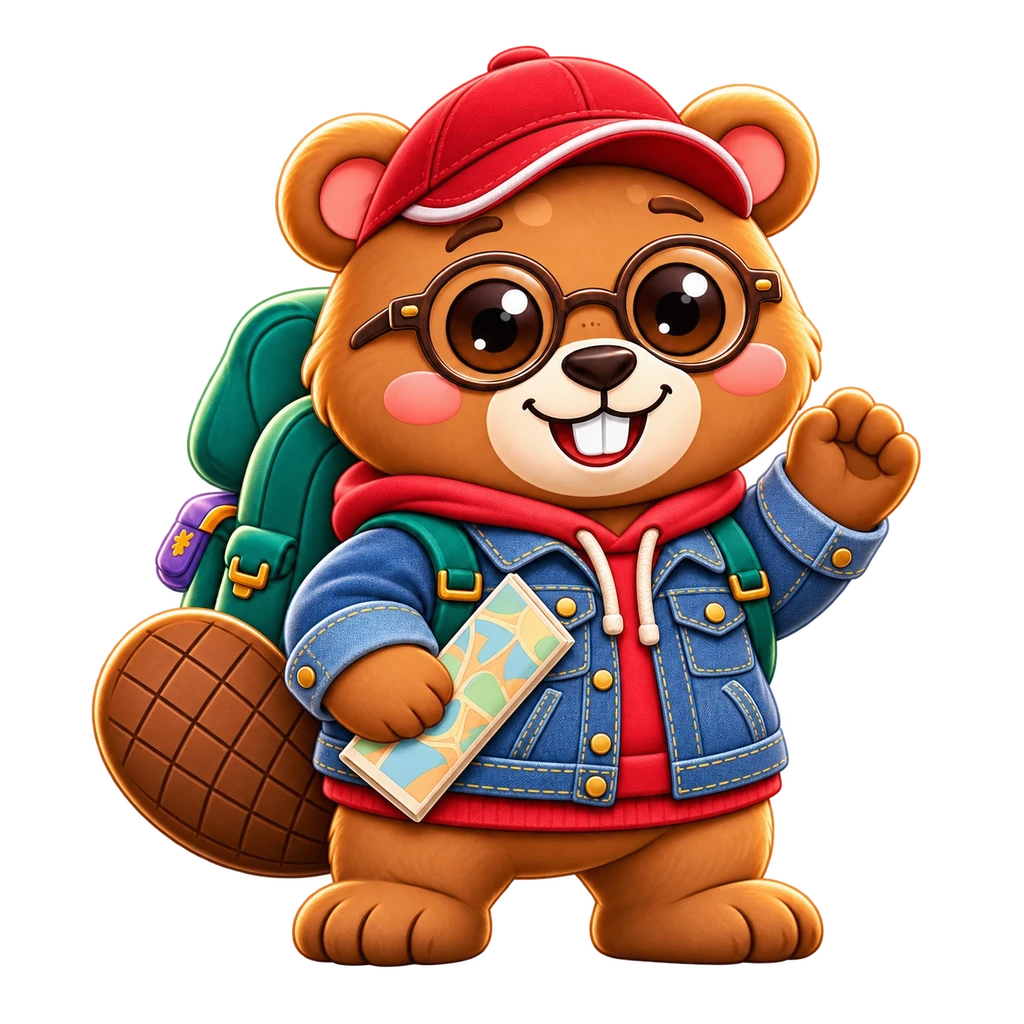
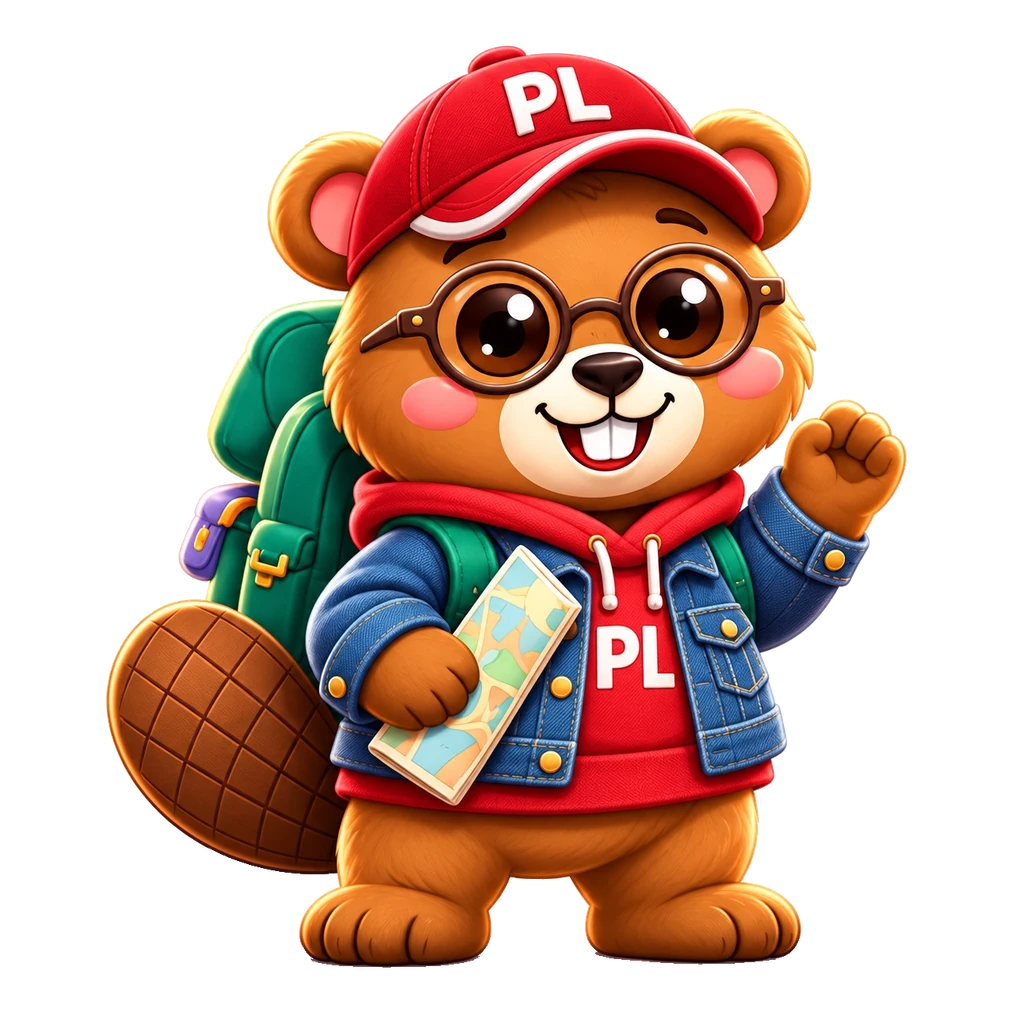
Bobek: third batch of ready-made outfits (cap with PL, clean replacements)
Six new pictures on a light background, cap with the PL lettering:
- cap + glasses + backpack and cap + glasses + scarf + backpack replace the two
  combinations whose masters had smears around and inside the silhouette;
- denim jacket + cap + glasses + backpack is redrawn with the PL cap;
- raincoat + glasses + backpack is redrawn so the raincoat matches the new one;
- raincoat + cap + glasses + backpack is a new combination (21 outfits now).

The pipeline cuts the background and shadow, and places each picture by the
frame of the already placed outfit with the same combination (the new batch has
a different framing per image). Superseded masters stay as frame references but
are not built. One alternative denim version is kept in held/.

Tests: look-variants (jacket sets, tie-break), browser check counts. Full run:
shared 185, server 640, wardrobe-screens 124, variants-screens 67, e2e 368.

Claude-Session: https://claude.ai/code/session_01NSMWbCS5JwahoTZhLmjU1M

diff --git a/packages/shared/test/look-variants.test.ts b/packages/shared/test/look-variants.test.ts
@@ -32,8 +32,8 @@ const codes = (m: LookManifest) => errors(m).map((i) => i.code);
 const withVariants = (list: readonly LookVariant[]): LookManifest => ({ ...LOOK_MANIFEST, variants: { ...LOOK_VARIANTS, list } });
 
 describe('готовые образы: таблица', () => {
-  it('полная сетка: все 16 сочетаний четырёх вещей, у каждого есть поза wave, поза open — у 8; плюс 4 образа с куртками (вторая партия)', () => {
-    expect(LOOK_VARIANTS.list).toHaveLength(20);
+  it('полная сетка: все 16 сочетаний четырёх вещей, у каждого есть поза wave, поза open — у 8; плюс 5 образов с куртками (вторая и третья партии)', () => {
+    expect(LOOK_VARIANTS.list).toHaveLength(21);
     expect(grid()).toHaveLength(16);
     const keys = grid().map((v) => v.items.join('+'));
     expect(new Set(keys).size).toBe(16);
@@ -214,9 +214,10 @@ describe('готовые образы: куртки (вторая партия, 
     [['jacket-denim', 'cap-red', 'glasses-round', 'backpack-travel'], 'variants/hoodie-denim-cap-glasses-pack_wave'],
     [['jacket-rain', 'backpack-travel'], 'variants/hoodie-rain-pack_wave'],
     [['jacket-rain', 'glasses-round', 'backpack-travel'], 'variants/hoodie-rain-glasses-pack_wave'],
+    [['jacket-rain', 'cap-red', 'glasses-round', 'backpack-travel'], 'variants/hoodie-rain-cap-glasses-pack_wave'],
   ];
 
-  it('четыре сочетания есть: куртка заменяет худи в данных, но худи остаётся «подкладкой» картинки', () => {
+  it('пять сочетаний есть: куртка заменяет худи в данных, но худи остаётся «подкладкой» картинки', () => {
     for (const [set, asset] of SETS) {
       const look = resolveLook(null, set);
       expect(look.mode, set.join('+')).toBe('variant');
@@ -239,6 +240,9 @@ describe('готовые образы: куртки (вторая партия, 
     const cap = resolveLook(null, ['jacket-denim', 'cap-red', 'backpack-travel']);
     expect(cap.layers.map((l) => l.asset)).toEqual(['variants/hoodie-denim-pack_wave']);
     expect(cap.items.find((o) => o.id === 'cap-red')).toMatchObject({ drawn: false, reason: 'no-variant' });
+    // дождевик + кепка + рюкзак (без очков): «кепка + рюкзак» по алфавиту раньше, но куртка важнее
+    const rainCap = resolveLook(null, ['jacket-rain', 'cap-red', 'backpack-travel']);
+    expect(rainCap.layers.map((l) => l.asset)).toEqual(['variants/hoodie-rain-pack_wave']);
     // шарф поверх дождевика с очками: образ «дождевик + очки + рюкзак», шарф не нарисован
     const scarf = resolveLook(null, ['jacket-rain', 'glasses-round', 'scarf-pl', 'backpack-travel']);
     expect(scarf.layers.map((l) => l.asset)).toEqual(['variants/hoodie-rain-glasses-pack_wave']);

diff --git a/scripts/variants-screens.ts b/scripts/variants-screens.ts
@@ -3,7 +3,7 @@
  *
  *   node --import tsx scripts/variants-screens.ts   → test-results/variants-screens/*.png
  *
- * 1. QA-галерея /__gallery?look: 20 образов (16 сетки и 4 с куртками), у каждого картинка декодируется, режим variant (стартовый набор — legacy-base),
+ * 1. QA-галерея /__gallery?look: 21 образ (16 сетки и 5 с куртками), у каждого картинка декодируется, режим variant (стартовый набор — legacy-base),
  *    нет горизонтальной прокрутки; снимок на тёмном фоне (видна прозрачность вырезки).
  * 2. Магазин на 320 / 390 / 430: примерка кепки показывает образ «худи + кепка + рюкзак» (data-look-mode=variant, картинка
  *    загружена), «Надеть» сохраняется на сервере и переживает перезагрузку, полный набор (кепка + очки + шарф + рюкзак) рисуется
@@ -50,11 +50,11 @@ async function main() {
           loaded: Array.from(el.querySelectorAll('img')).length > 0 && Array.from(el.querySelectorAll('img')).every((i) => i.naturalWidth > 0),
         })),
       );
-      check(tiles.length === 20, `галерея: 20 готовых образов — 16 сетки и 4 с куртками (${tiles.length})`);
+      check(tiles.length === 21, `галерея: 21 готовый образ — 16 сетки и 5 с куртками (${tiles.length})`);
       const broken = tiles.filter((t) => !t.loaded).map((t) => t.id);
       check(broken.length === 0, `галерея: у каждого образа картинка загружена${broken.length ? ` (нет: ${broken.join(', ')})` : ''}`);
       const wrongMode = tiles.filter((t) => t.mode !== (t.id === 'hoodie-pack' ? 'legacy-base' : 'variant')).map((t) => `${t.id}:${t.mode}`);
-      check(wrongMode.length === 0, `галерея: режим variant у 19 образов, стартовый набор — legacy-base${wrongMode.length ? ` (${wrongMode.join(', ')})` : ''}`);
+      check(wrongMode.length === 0, `галерея: режим variant у 20 образов, стартовый набор — legacy-base${wrongMode.length ? ` (${wrongMode.join(', ')})` : ''}`);
       check(await p.evaluate(() => document.documentElement.scrollWidth <= window.innerWidth + 1), 'галерея: нет горизонтальной прокрутки');
       await p.screenshot({ path: `${OUT}/gallery-dark.png`, fullPage: true });
       await ctx.close();

diff --git a/packages/shared/src/look/variants.ts b/packages/shared/src/look/variants.ts
@@ -6,7 +6,7 @@
  * Що вміщує таблиця зараз:
  * - повна сітка з чотирьох речей-осей (кепка, круглі окуляри, польський шарф, рюкзак) у всіх 16 сполученнях; худі — на кожній
  *   картинці. Поза `wave` (махає, карта в руці) є в усіх 16, поза `open` (руки розведені) — у 8 з них;
- * - друга партія (куртки поверх худі): джинсова куртка й жовтий дощовик, лише 4 сполучення — часткова сітка. Для решти сполучень
+ * - куртки поверх худі (друга й третя партії): джинсова куртка й жовтий дощовик, лише 5 сполучень — часткова сітка. Для решти сполучень
  *   `resolveLook` малює найбільший образ, що вміщується, а вдягнене понад нього позначає `no-variant`.
  * Наступна частина образів = нові файли в assets/variants + рядки тут (нова вісь або нові сполучення).
  */
@@ -37,12 +37,13 @@ const HAS_OPEN: ReadonlySet<string> = new Set([
   'hoodie', 'hoodie-cap', 'hoodie-glasses', 'hoodie-scarf', 'hoodie-pack', 'hoodie-cap-glasses', 'hoodie-glasses-scarf', 'hoodie-cap-glasses-scarf-pack',
 ]);
 
-/** Друга партія: сполучення з куртками, які є в мастерах (docs/design/v18/bobek-part2). Поза лише `wave`. */
+/** Друга й третя партії: сполучення з куртками, які є в мастерах (docs/design/v18/bobek-part2, bobek-part3). Поза лише `wave`. */
 const JACKET_SETS: readonly (readonly string[])[] = [
   ['jacket-denim', 'backpack-travel'],
   ['jacket-denim', 'cap-red', 'glasses-round', 'backpack-travel'],
   ['jacket-rain', 'backpack-travel'],
   ['jacket-rain', 'glasses-round', 'backpack-travel'],
+  ['jacket-rain', 'cap-red', 'glasses-round', 'backpack-travel'],
 ];
 
 const nameOf = (items: readonly string[]) => ['hoodie', ...PRIORITY.filter((id) => items.includes(id)).map((id) => SHORT[id])].join('-');

diff --git a/docs/BOBEK_VARIANTS.md b/docs/BOBEK_VARIANTS.md
@@ -6,9 +6,9 @@
 
 ## Как это работает
 
-- **Таблица** — `packages/shared/src/look/variants.ts` (`LOOK_VARIANTS`): набор вещей → ключ картинки. 20 образов: четыре вещи-оси
-  (красная кепка, круглые очки, польский шарф, рюкзак) в **всех 16 сочетаниях** (первая партия) и **4 образа с куртками** (вторая партия:
-  джинсовая куртка с рюкзаком, с кепкой, очками и рюкзаком; дождевик с рюкзаком, с очками и рюкзаком — куртки надеты поверх худи).
+- **Таблица** — `packages/shared/src/look/variants.ts` (`LOOK_VARIANTS`): набор вещей → ключ картинки. 21 образ: четыре вещи-оси
+  (красная кепка, круглые очки, польский шарф, рюкзак) в **всех 16 сочетаниях** (первая партия) и **5 образов с куртками** (вторая и третья партии:
+  джинсовая куртка с рюкзаком, с кепкой, очками и рюкзаком; дождевик с рюкзаком, с очками и рюкзаком, с кепкой, очками и рюкзаком — куртки надеты поверх худи).
   Красное худи нарисовано на каждой картинке (`includes`).
 - **Предметы** со статусом `prerendered` (худи, рюкзак, кепка, очки, шарф, джинсовая куртка, дождевик): их можно покупать и надевать, Бобек в них —
   готовая картинка. Остальные вещи каталога по-прежнему `pending` («Визуал готовится», не продаются) до следующей части образов.
@@ -30,19 +30,21 @@
 | `wave` (01–16) | 512×512, альфа | стирает полупрозрачные разводы дальше 4 px от силуэта; ставит на холст 512 и @256 |
 | `open` (24–31) | 1254×1254 на бежевом | вырезает фон заливкой от края (белое внутри фигуры — шарф, зубы, буквы — остаётся), убирает падающую тень; холст 1024, @512, @256 |
 | `jackets` (41–44, вторая партия) | 1254×1254, альфа | стирает разводы дальше 8 px от силуэта (в мастерах цветные точки вокруг фигуры); холст 1024, @512, @256; опорный кадр 41 (куртка + рюкзак, без головного убора) |
+| `refresh` (51–55, третья партия) | 1254×1254 на светлом фоне | вырезает фон и тень, как у `open`; у каждой картинки своё кадрирование, поэтому она ставится по рамке образа-аналога (`LIKE` в конвейере); холст 1024, @512, @256 |
 
 Все образы стоят на общем квадратном холсте с тем же масштабом, линией ног и центром, что поза `beaver/wave` (опорный кадр серии — худи + рюкзак,
 05 и 28; для курток — 41). Преобразование одно на серию, не на кадр, поэтому при смене вещи Бобек не прыгает. WebP всего 3,2 МБ.
 
-Пересборка: `node scripts/build-bobek-variants.mjs` (`--only wave|open|jackets` — одна серия, `--sheet файл.png` — контрольный лист на тёмном фоне).
+Пересборка: `node scripts/build-bobek-variants.mjs` (`--only wave|open|jackets|refresh` — одна серия, `--sheet файл.png` — контрольный лист на тёмном фоне).
 
 ## Известные недостатки мастеров (нужна ретушь владельца)
 
 - Серия 09–16 названа владельцем «экспериментальной»: разводы вокруг фигуры конвейер убирает, но **внутри силуэта остаются дефекты** — призрак на щеке и
-  у козырька в `hoodie-cap-glasses` (09), лёгкие смазы у рюкзака в 11, 14, 15, 16. На светлой карточке почти не видны, на тёмном фоне заметны.
+  у козырька в `hoodie-cap-glasses` (09), лёгкие смазы у рюкзака в 11, 15. На светлой карточке почти не видны, на тёмном фоне заметны.
+  Сочетания 14 и 16 (кепка + очки + рюкзак; кепка + очки + шарф + рюкзак) заменены чистыми версиями третьей партии. Ещё ждут чистых версий 09, 11, 15.
 - У серии `wave` разрешение 512 px: на экране 220 px при плотности ×3 картинка чуть мягче, чем 1024-пиксельные позы владельца.
 - Поза `open` есть у 8 сочетаний из 16; у остальных 8 `cheer`/`celebrate` показывают `wave`.
-- Кепка на образе с джинсовой курткой — без надписи PL (у кепки в сетке она есть): так нарисовано в мастерах второй партии.
+- Кепка на всех образах теперь с надписью PL: в третьей партии образ «джинсовая + кепка + очки + рюкзак» перерисован с PL-кепкой.
 - Образы с курткой есть только вместе с рюкзаком: без рюкзака в куртке Бобек рисуется в худи, куртка помечена «нет картинки».
 - Разные серии — разные позы: при смене вещи в настроении `cheer` (примерочная) Бобек может сменить позу с `open` на `wave`, если у нового
   сочетания нет `open`. Чистый вариант — прислать недостающие 8 сочетаний в позе `open` (или все 16 в одной позе).
@@ -57,16 +59,27 @@
 
 ## Проверки
 
-- `packages/shared/test/look-variants.test.ts` (27): таблица (16 сочетаний + 4 с куртками, пары поз), файлы на диске, проверка манифеста ловит расхождения, режим `variant`
+- `packages/shared/test/look-variants.test.ts` (27): таблица (16 сочетаний + 5 с куртками, пары поз), файлы на диске, проверка манифеста ловит расхождения, режим `variant`
   для каждого сочетания, стартовый набор остаётся цельным, настроения, ракурсы, костюм поверх, `pending` рядом, `no-variant`, примерка, покупка.
 - `apps/server/test/look-catalog.test.ts`, `shop-look.test.ts`: что продаётся сейчас (кепка, очки, шарф, джинсовая куртка, дождевик, три костюма, две рамки) и статусы `visualStatus`.
-- `scripts/variants-screens.ts` (Chromium, 320 / 390 / 430): галерея из 20 образов, примерка → «Надеть» → перезагрузка, полный набор, тот же набор на главной,
+- `scripts/variants-screens.ts` (Chromium, 320 / 390 / 430): галерея из 21 образа, примерка → «Надеть» → перезагрузка, полный набор, тот же набор на главной,
   образ без рюкзака, джинсовая куртка с кепкой и очками, примерка шарфа поверх куртки («Для этого сочетания нет картинки»). Снимки — `test-results/variants-screens/` (не в git). **На реальных iPhone и Android не проверялось.**
 
 ## Экономика
 
 Цены не менялись. Пять вещей (кепка 40, круглые очки 50, шарф 60, дождевик 70, джинсовая куртка 90 Złotki) стали продаваемыми, потому что у них появились
 картинки; шарф и очки уже выдаются как награды (миссия, достижение «Майстер квізів»). Решение, оставлять ли их и в магазине, — за владельцем.
+
+## Третья партия: чистые замены и дождевик с кепкой
+
+Владелец прислал 6 картинок на светлом фоне (кепка с PL, поза `wave`). Подключены 5, шестая — второй вариант джинсовой куртки — в `docs/design/v18/bobek-part3/held/`:
+- `51` джинсовая + кепка + очки + рюкзак — заменила версию без надписи PL (мастер 42);
+- `52` кепка + очки + шарф + рюкзак — заменила версию с разводами (мастер 16);
+- `54` кепка + очки + рюкзак — заменила версию с разводами (мастер 14);
+- `55` дождевик + очки + рюкзак — заменила версию второй партии (мастер 44), чтобы дождевик был одним и тем же на образах с кепкой и без неё;
+- `53` дождевик + кепка + очки + рюкзак — **новое сочетание**.
+Заменённые мастера (14, 16, 42, 44) лежат на месте и остаются ориентирами кадра, но не собираются (побеждает мастер с большим номером).
+Образ «дождевик + рюкзак» (43) остаётся из второй партии: у него дождевик нарисован чуть иначе (серые заклёпки вместо коричневых) — при добавлении очков вид дождевика меняется. Чистый вариант — перерисовать 43 в стиле 53 и 55.
 
 ## Вторая партия: что подключено, что ждёт решения
 

diff --git a/docs/CLAUDE_HANDOFF.md b/docs/CLAUDE_HANDOFF.md
@@ -1,6 +1,6 @@
 # POLSKI GO — передача работы
 
-**2026-11-01 — готовые образы Бобека (ADR-013, `docs/BOBEK_VARIANTS.md`):** владелец отказался от единой слоистой модели: вместо слоёв — готовая картинка под каждое сочетание вещей, в магазине предметов. Из архива из 31 картинки подключены все 16 сочетаний «худи + кепка / очки / шарф / рюкзак» (серия 01–16, поза `wave`) и 8 из них в позе `open` (серия 24–31); костюмы 17–23 уже были в приложении (совпадают пиксель в пиксель). Статус `prerendered`, таблица `LOOK_VARIANTS`, режим `variant` у `resolveLook`, конвейер `scripts/build-bobek-variants.mjs`. Стартовый набор (худи + рюкзак) — по-прежнему 14 поз. Кепка, круглые очки, шарф теперь продаются (цены прежние). **Вторая партия (12 картинок с куртками):** подключены джинсовая куртка и дождевик (4 образа, `prerendered`, частичная сетка: приоритет и «нет картинки» в примерочной); 3 образа с вещами вне каталога лежат в `docs/design/v18/bobek-part2/held/` и ждут решения владельца (названия, цены, как получить). **Ждём от владельца:** ретушь дефектов серии 09–16 (призраки внутри силуэта), недостающие 8 сочетаний в позе `open` (или все 16 в одной позе), следующие вещи (каждая новая вещь-ось удваивает сетку), решение, оставлять ли шарф и очки в магазине, если они же — награды. Проверки: `look-variants.test.ts`, `scripts/variants-screens.ts`, L1 «готовый образ» в `browser-check.ts`. Откат — revert коммита.
+**2026-11-01 — готовые образы Бобека (ADR-013, `docs/BOBEK_VARIANTS.md`):** владелец отказался от единой слоистой модели: вместо слоёв — готовая картинка под каждое сочетание вещей, в магазине предметов. Из архива из 31 картинки подключены все 16 сочетаний «худи + кепка / очки / шарф / рюкзак» (серия 01–16, поза `wave`) и 8 из них в позе `open` (серия 24–31); костюмы 17–23 уже были в приложении (совпадают пиксель в пиксель). Статус `prerendered`, таблица `LOOK_VARIANTS`, режим `variant` у `resolveLook`, конвейер `scripts/build-bobek-variants.mjs`. Стартовый набор (худи + рюкзак) — по-прежнему 14 поз. Кепка, круглые очки, шарф теперь продаются (цены прежние). **Третья партия (6 картинок, кепка с PL):** чистые версии сочетаний 14 и 16, джинсовая + кепка + очки с PL-кепкой, дождевик + очки, новое «дождевик + кепка + очки + рюкзак» (21 образ в таблице); конвейер ставит их по рамке образа-аналога (`LIKE`). **Вторая партия (12 картинок с куртками):** подключены джинсовая куртка и дождевик (4 образа, `prerendered`, частичная сетка: приоритет и «нет картинки» в примерочной); 3 образа с вещами вне каталога лежат в `docs/design/v18/bobek-part2/held/` и ждут решения владельца (названия, цены, как получить). **Ждём от владельца:** ретушь дефектов серии 09–16 (призраки внутри силуэта), недостающие 8 сочетаний в позе `open` (или все 16 в одной позе), следующие вещи (каждая новая вещь-ось удваивает сетку), решение, оставлять ли шарф и очки в магазине, если они же — награды. Проверки: `look-variants.test.ts`, `scripts/variants-screens.ts`, L1 «готовый образ» в `browser-check.ts`. Откат — revert коммита.
 
 **2026-10-31 — v17:** карта — живописная картинка владельца с прозрачными кнопками городов по рамкам табличек (`packages/shared/src/mapArt.ts`, `components/IllustratedMap.tsx`, ADR-012, `docs/MAP_V17.md`), прогресс и доступ только из `journey`; откат — revert коммита карты. Premium-миссии (`content/missions-premium.ts`) — по 19–21 шагу, «~15 мин», награды прежние. Проверки: `scripts/map-screens.ts`, `map-art.test.ts`, `premium-missions.test.ts`, A4 в `browser-check.ts`. Ждём от владельца: чистый фон карты, озвучку новых реплик, решение о награде. Позже: Rzeszów показывает временную панораму (`CITY_ART.rzeszow.shown`). PR #1 (`chatgpt/bobek-unified-preview`, QA-режим и «Бобек V2» скриптом в SVG) проверен и не слит — оценка в `PROJECT_PROGRESS.md`; решение о слиянии проверок за владельцем. 2026-11-01: **Olsztyn получил 8 уроков и экзамен** (`content/olsztyn.ts`, `vocab-olsztyn.ts`, тесты в `new-cities.test.ts`); без уроков остались Białystok, Lublin, Rzeszów, Kielce, Zakopane — **аудит безопасности сделан** (`docs/SECURITY_AUDIT_2026-11.md`: лимит запросов, блокировка подбора пароля админки в D1, подписки Stars, заголовки, Hono 4.13.15; остались zod 4, CSP после проверки на устройствах, настройки Cloudflare за владельцем); **Premium v2** (`docs/PREMIUM_LOGIC_V2.md`: продление подписчиком, награды приветственные / лояльности / за тариф, суммы в админке; идеи без реализации ждут решения владельца); **Białystok получил 8 уроков и экзамен** (без уроков остались Lublin, Rzeszów, Kielce, Zakopane; следующий — Lublin: «Документы и учреждения», B1, `lub-urzad`, `lub-bank`, `lub-zamek`; Kielce последним, на нём держится e2e A3.8); **правило качества заданий** — `docs/EXERCISE_QUALITY.md` (три варианта в шагах диалогов; старые города ещё не переработаны); следующий по маршруту Lublin (B1, «Повседневные ситуации»: возвратные глаголы, услуги, Беловежская пуща и зубр; здоровье и аптека из архива — `docs/CONTENT_AUDIT_RU.md`).
 

diff --git a/docs/ARCHITECTURE_DECISIONS.md b/docs/ARCHITECTURE_DECISIONS.md
@@ -382,6 +382,7 @@ ADR-005 строил единую живописную модель: база + 
 - Известные дефекты мастеров серии 09–16 (призраки внутри силуэта) требуют ретуши владельца: `docs/BOBEK_VARIANTS.md`.
 - Кепка, круглые очки и шарф теперь продаются; цены прежние (40 / 50 / 60 Złotki) — решение владельца, оставлять ли их в магазине.
 - **Вторая партия (2026-11-01):** джинсовая куртка и дождевик — `prerendered`, 4 образа с рюкзаком (часть сетки не нарисована). Правило частичной сетки: образ с наибольшим числом вмещающихся вещей, при равенстве — важнее вещь по `LOOK_VARIANTS.priority`; остальное `no-variant` («Для этого сочетания нет картинки» в примерочной). Три образа с вещами вне каталога (чёрная куртка + наушники, пуховик + шапка + шарф, пальто + тёплые наушники) не подключены: нужны название, цена, редкость и способ получения — решение владельца.
+- **Третья партия (2026-11-01):** 5 картинок на светлом фоне (кепка с PL): перерисованы сочетания 14, 16 (серия 01–16, были с разводами), «джинсовая + кепка + очки + рюкзак» (кепка теперь с PL) и «дождевик + очки + рюкзак»; новое сочетание «дождевик + кепка + очки + рюкзак». Конвейер ставит такие картинки по рамке образа-аналога, а не по общему для серии преобразованию.
 - Откат: `git revert` коммита готовых образов возвращает `pending` у пяти вещей и прежний `legacy-base`; данные пользователей не менялись.
 - Проверки: `look-variants.test.ts`, `look.test.ts`, `look-catalog.test.ts`, `shop-look.test.ts`, `scripts/variants-screens.ts`.
 

diff --git a/docs/design/v18/bobek-part3/README.md b/docs/design/v18/bobek-part3/README.md
@@ -1,0 +1,16 @@
+# Мастера третьей партии образов Бобека (пакет владельца 2026-11-01)
+
+6 картинок 1254×1254 на светлом фоне (RGB, без прозрачности), поза «машет с картой», кепка с надписью PL. Конвейер вырезает фон и тень
+(`scripts/build-bobek-variants.mjs`, серия `refresh`). Кадрирование у каждой картинки своё, поэтому каждая ставится по рамке образа-аналога
+(`LIKE` в конвейере): 51 ← 42, 52 ← 16, 53 ← 54, 54 ← 14, 55 ← 44.
+
+| № | Файл | Статус |
+|---|---|---|
+| 51 | `51_hoodie-red_jacket-denim_cap-red_glasses-round_backpack-green.webp` | подключён: `hoodie-denim-cap-glasses-pack` (с кепкой PL, заменил мастер 42) |
+| 52 | `52_hoodie-red_cap-red_glasses-round_scarf-pl_backpack-green.webp` | подключён: `hoodie-cap-glasses-scarf-pack` (заменил мастер 16) |
+| 53 | `53_hoodie-red_jacket-rain_cap-red_glasses-round_backpack-green.webp` | подключён: `hoodie-rain-cap-glasses-pack` (новое сочетание) |
+| 54 | `54_hoodie-red_cap-red_glasses-round_backpack-green.webp` | подключён: `hoodie-cap-glasses-pack` (заменил мастер 14) |
+| 55 | `55_hoodie-red_jacket-rain_glasses-round_backpack-green.webp` | подключён: `hoodie-rain-glasses-pack` (заменил мастер 44) |
+| held | `02_alt_jacket-denim_cap_glasses_b.webp` | второй вариант 51; не используется |
+
+Формат хранения: WebP качества 97. Подробнее — `docs/BOBEK_VARIANTS.md`, раздел «Третья партия».

diff --git a/docs/design/v18/bobek-part2/README.md b/docs/design/v18/bobek-part2/README.md
@@ -6,9 +6,9 @@
 | № | Файл | Статус |
 |---|---|---|
 | 41 | `41_hoodie-red_jacket-denim_backpack-green.webp` | подключён: `hoodie-denim-pack` |
-| 42 | `42_hoodie-red_jacket-denim_cap-red_glasses-round_backpack-green.webp` | подключён: `hoodie-denim-cap-glasses-pack` |
+| 42 | `42_hoodie-red_jacket-denim_cap-red_glasses-round_backpack-green.webp` | заменён версией 51 из третьей партии (кепка с PL); остаётся ориентиром кадра, не собирается |
 | 43 | `43_hoodie-red_jacket-rain_backpack-green.webp` | подключён: `hoodie-rain-pack` |
-| 44 | `44_hoodie-red_jacket-rain_glasses-round_backpack-green.webp` | подключён: `hoodie-rain-glasses-pack` |
+| 44 | `44_hoodie-red_jacket-rain_glasses-round_backpack-green.webp` | заменён версией 55 из третьей партии; остаётся ориентиром кадра, не собирается |
 | held | `01_`, `08_outfit_black-jacket-headphones_*` | чёрная куртка + наушники; вещей нет в каталоге — ждёт решения владельца |
 | held | `02_`, `06_outfit_puffer-*` | жёлтый пуховик + шапка + шарф; вещей нет в каталоге |
 | held | `05_`, `07_outfit_sherpa/duffle-coat-earmuffs_*` | пальто + тёплые наушники + шарф; вещей нет в каталоге |

diff --git a/docs/design/v18/bobek31/README.md b/docs/design/v18/bobek31/README.md
@@ -7,7 +7,7 @@
 | № | Файл | Серия | Что это |
 |---|---|---|---|
 | 01–08 | `01_hoodie-red.webp` … `08_…` | wave, чистые | 512×512, прозрачный фон, машет рукой с картой |
-| 09–16 | `09_…` … `16_…` | wave, с дефектами | «экспериментальные сочетания»: полупрозрачные разводы вокруг фигуры (до 3800 px), в 09 ещё и призрак на щеке |
+| 09–16 | `09_…` … `16_…` | wave, с дефектами (14 и 16 заменены чистыми версиями третьей партии: остаются ориентирами кадра, не собираются) | «экспериментальные сочетания»: полупрозрачные разводы вокруг фигуры (до 3800 px), в 09 ещё и призрак на щеке |
 | 24–31 | `24_…` … `31_…` | open, чистые | 1254×1254 на ровном бежевом фоне (без альфа-канала), руки разведены, 8 сочетаний |
 
 Формат имени: `NN_hoodie-red[_cap-red][_glasses-round][_scarf-pl][_backpack-green].webp`; `backpack-green` — это `backpack-travel` каталога.
